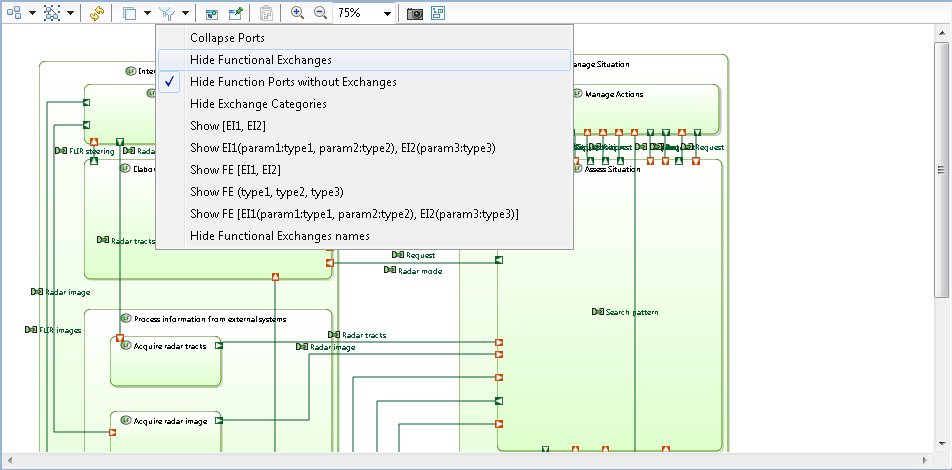
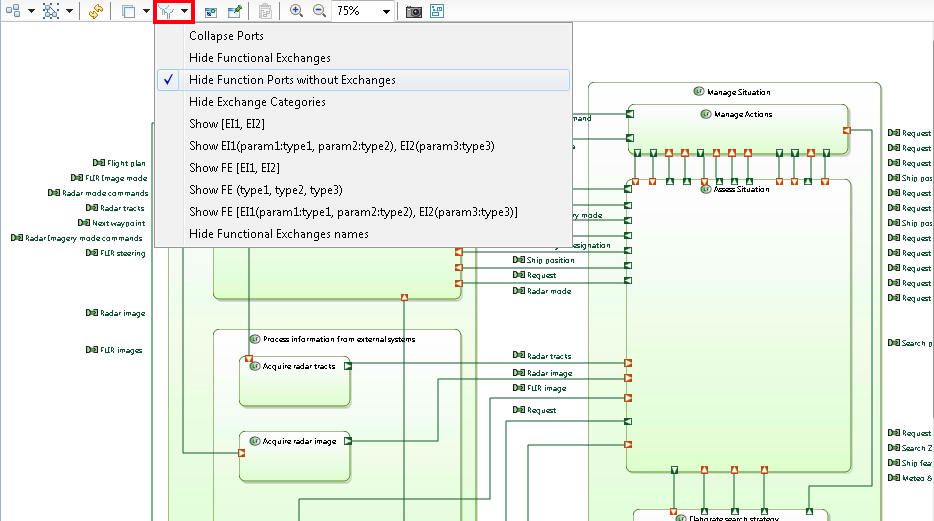
Updated Features page
Add new images for filters and semantic delete

diff --git a/features.html b/features.html
@@ -133,8 +133,8 @@
 				
 				<br />
 				<p style="text-align: left; padding:10px;">
-					Then, deleting elements from the diagram and refreshing the layout, ports and links are automatically 
-					computed and moved to the referral parent.
+					Then, deleting elements from the diagram and refreshing the layout, new ports and links are automatically 
+					computed and supported by the referral parent.
 				<p>
 				
 				<!-- la miniature -->
